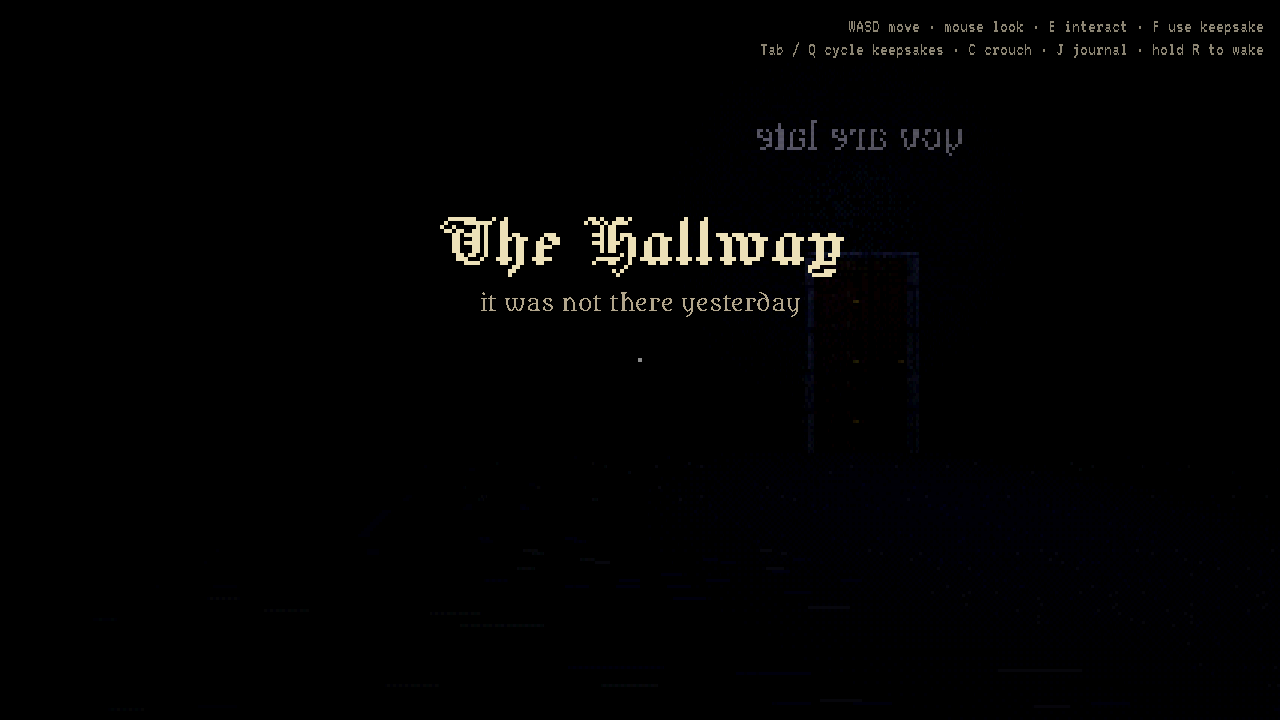
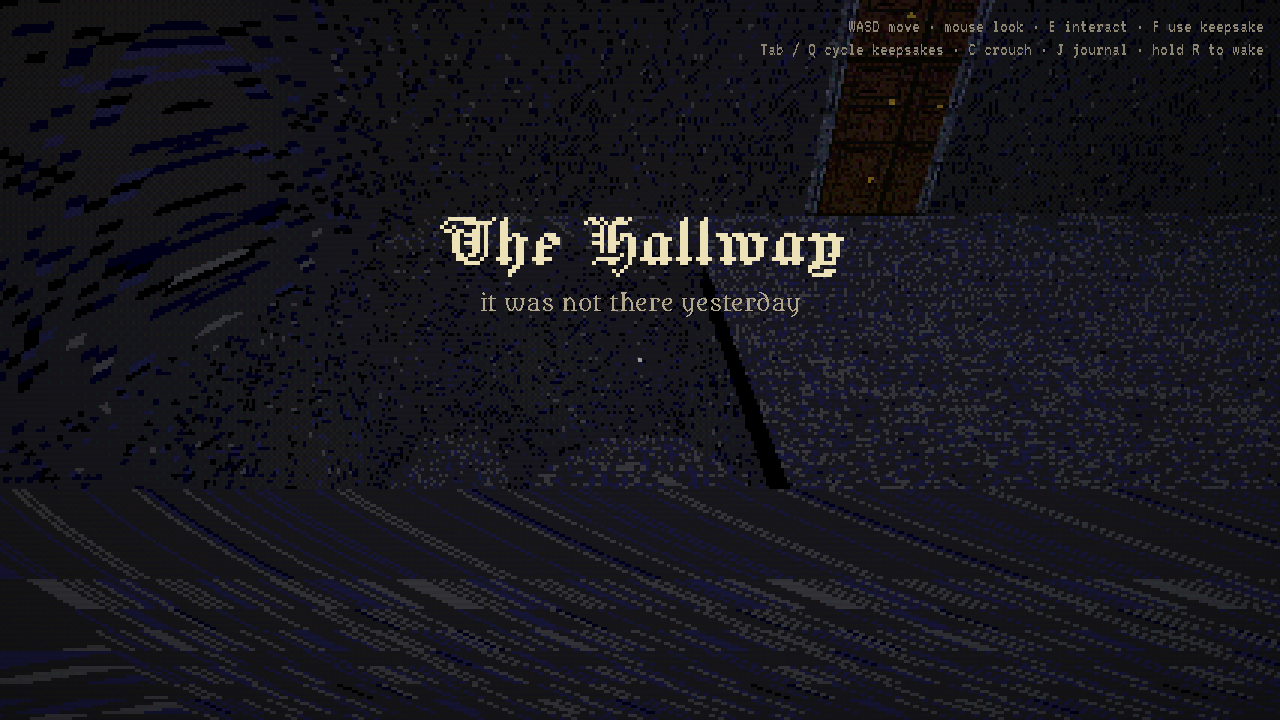
Brighten the Hallway and its stair shaft; document the new conventions and areas
Claude-Session: https://claude.ai/code/session_01AXzfG8dzS1bSxFmzRZTFLN

diff --git a/docs/ROADMAP.md b/docs/ROADMAP.md
@@ -35,6 +35,18 @@ roughly in order of value:
 * A `tools/gen_assets/README` with a gallery contact sheet regenerated in CI.
 
 ## Known rough edges
+* The sleeping faces of the Slow Sea are flat cards with a square backing;
+  from above they read as slabs. A lathed head would sell them.
+* `Clockwork.add_shape` only makes boxes; round riding platforms (the Sea's
+  drifting discs, the Clocktower's gears) use a box approximation.
+* Riding moving platforms and climbing the Clocktower spiral are validated
+  numerically (gap/rise) but not by the headless playtest, which only walks
+  the flat, the Anteroom and the bed.
+* The Furnace's small iron door (behind the cut gallows rope) opens onto
+  stairs that are "not finished being dreamt": a hook for a way up into the
+  Last Lamp's cellar.
+* The Waiting Halls' number display is a Label3D over a small prop; a proper
+  seven-segment texture would read better at pixel scale 3.
 * Areas rebuild on every visit; large realms take ~100 ms under software GL.
   Fine on hardware; could cache.
 * Under llvmpipe the frame rate is low (it is a verification path, not a play
